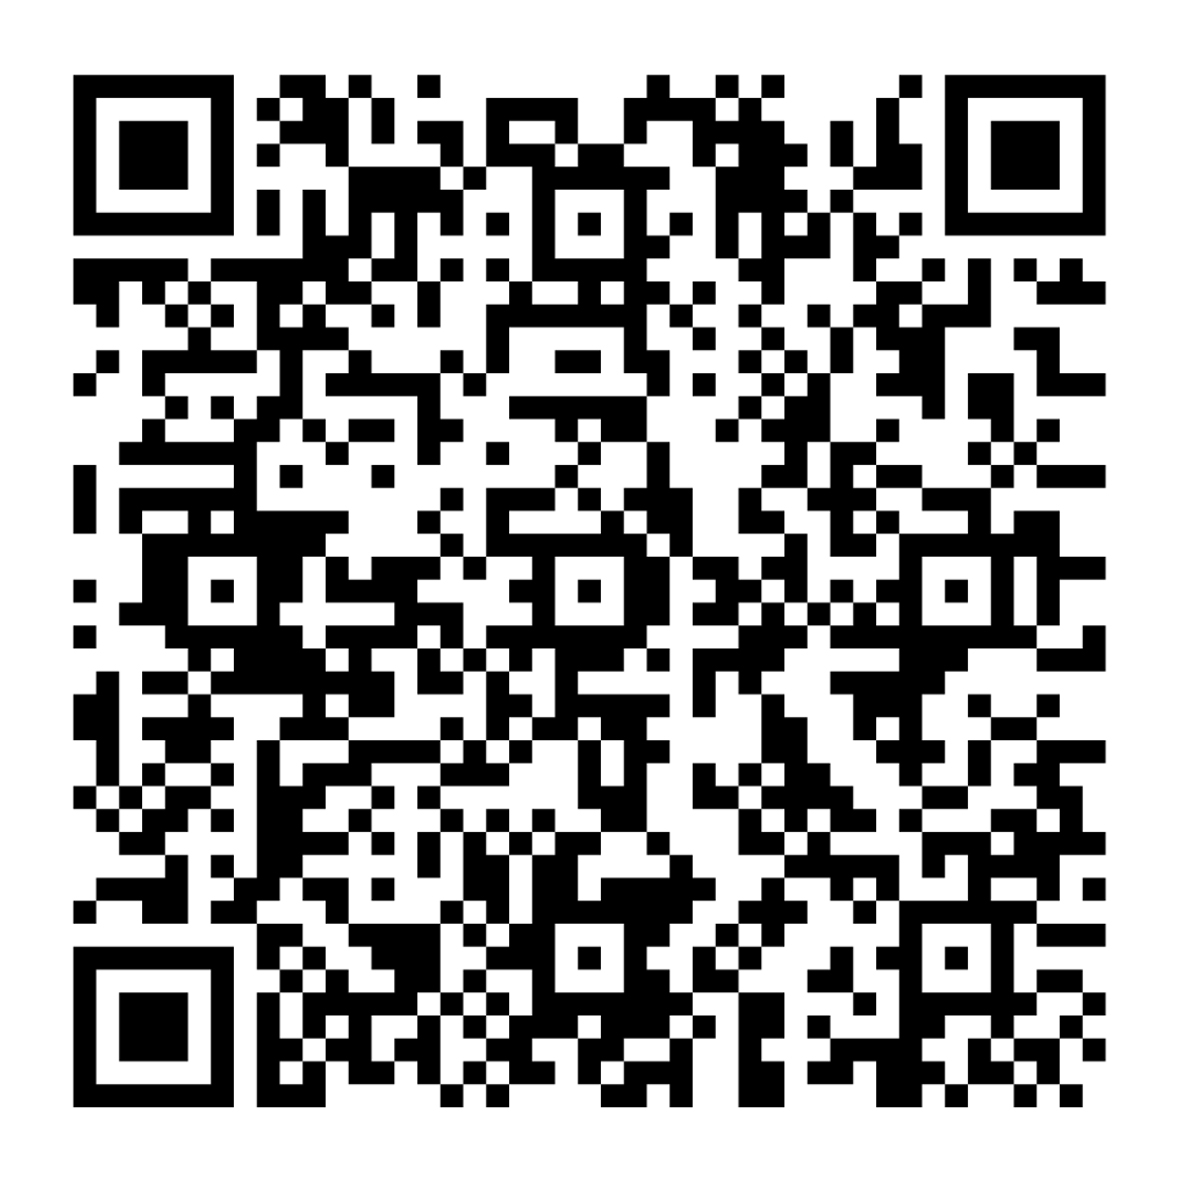
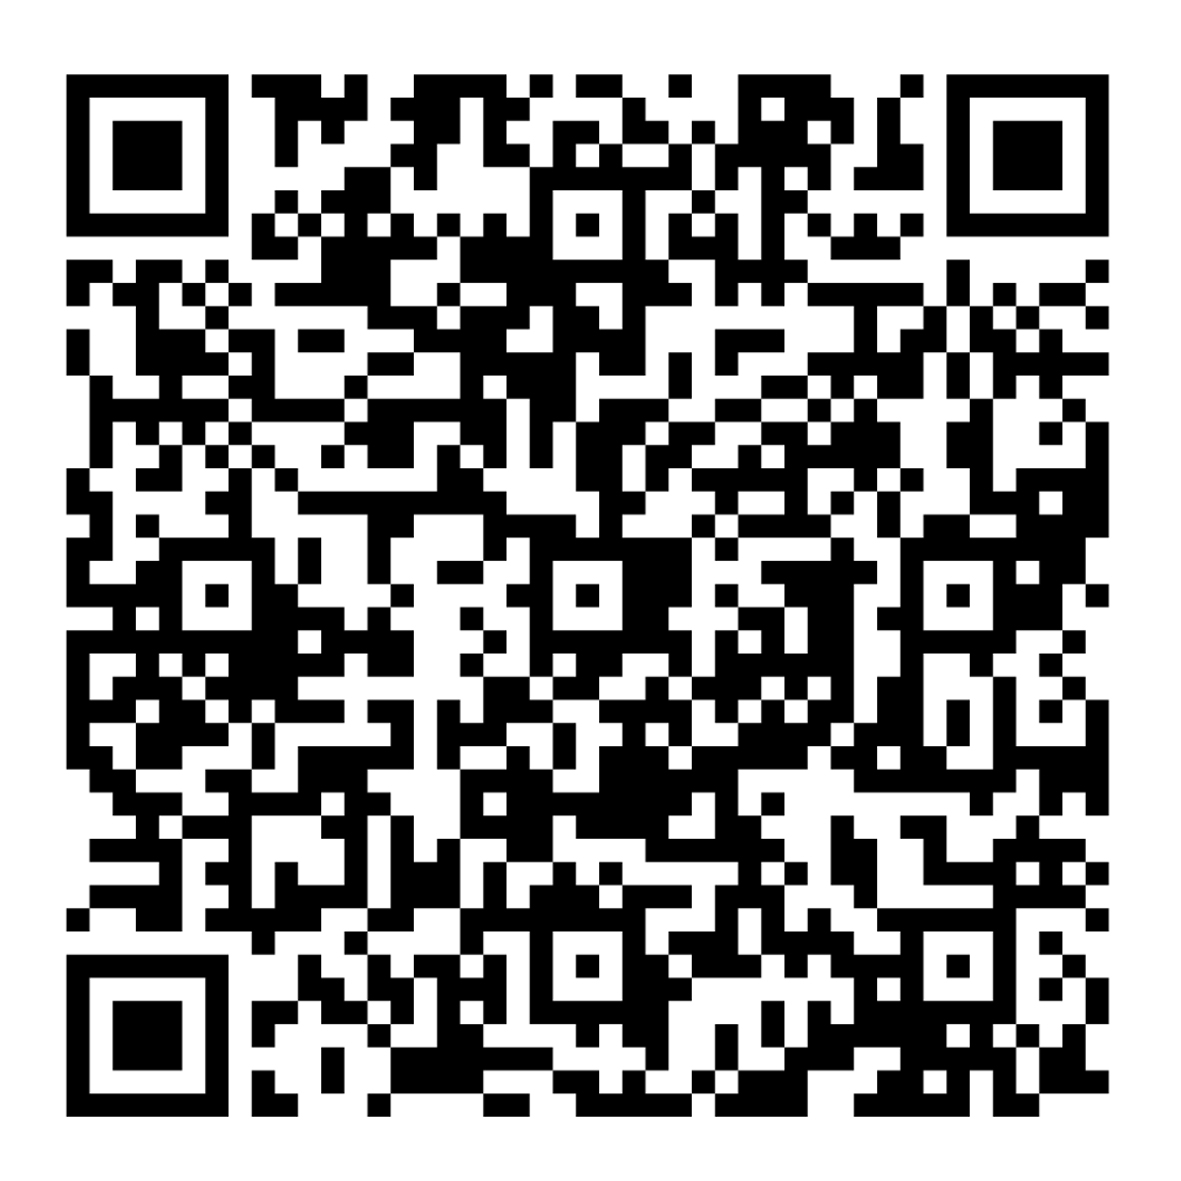
hjgjg

diff --git a/payment.html b/payment.html
@@ -404,86 +404,95 @@
         .plans-container {
             display: flex;
             justify-content: center;
-            align-items: center;
+            flex-wrap: wrap;
+            gap: 40px;
+            align-items: stretch;
         }
 
         .price-container {
             background: var(--color-white);
             border-radius: 16px;
-            padding: 50px 40px;
+            padding: 40px 30px;
             width: 100%;
-            max-width: 500px;
+            max-width: 360px;
             text-align: center;
-            box-shadow: 0 12px 30px rgba(0, 0, 0, 0.12);
-            border: 3px solid var(--color-primary);
+            box-shadow: 0 8px 20px rgba(0, 0, 0, 0.08);
+            border: 2px solid #e0e0e0;
             transition: all var(--transition-speed) ease;
             position: relative;
+            display: flex;
+            flex-direction: column;
+        }
+
+        .price-container.popular {
+            border-color: var(--color-primary);
+            transform: scale(1.05);
         }
 
         .price-container:hover {
-            transform: translateY(-10px);
-            box-shadow: 0 15px 40px rgba(0, 0, 0, 0.18);
+            transform: translateY(-8px) scale(1.02);
+            box-shadow: 0 12px 30px rgba(0, 0, 0, 0.12);
+        }
+        
+        .price-container.popular:hover {
+            transform: translateY(-8px) scale(1.05);
         }
 
         .price-label {
             position: absolute;
-            top: -18px;
+            top: -16px;
             left: 50%;
             transform: translateX(-50%);
-            background: linear-gradient(135deg, #ff6b6b, #ee5a6f);
+            background: var(--color-primary);
             color: var(--color-white);
-            padding: 10px 30px;
-            border-radius: 30px;
-            font-size: 1rem;
+            padding: 8px 20px;
+            border-radius: 25px;
+            font-size: 0.9rem;
             font-weight: 700;
             text-transform: uppercase;
-            box-shadow: 0 4px 15px rgba(255, 107, 107, 0.4);
-            letter-spacing: 1px;
+        }
+        
+        .price-label.popular-label {
+             background: var(--color-text-dark);
         }
 
+
         .price-amount {
-            font-size: 4rem;
+            font-size: 3.5rem;
             font-weight: 700;
             color: var(--color-primary);
-            margin: 40px 0 20px;
+            margin: 30px 0 15px;
             display: flex;
             align-items: baseline;
             justify-content: center;
-            gap: 5px;
+            gap: 4px;
         }
 
         .price-currency {
-            font-size: 2rem;
+            font-size: 1.5rem;
             font-weight: 600;
         }
 
         .price-period {
-            font-size: 1.2rem;
+            font-size: 1rem;
             color: #777;
             font-weight: 500;
-            margin-left: 5px;
         }
 
         .price-description {
-            font-size: 1.1rem;
+            font-size: 0.95rem;
             color: #666;
-            line-height: 1.8;
-            margin-bottom: 35px;
+            line-height: 1.7;
+            margin-bottom: 30px;
+            flex-grow: 1;
         }
 
         .qr-code-plan {
             width: 100%;
-            max-width: 280px;
-            border-radius: 12px;
-            margin: 30px auto;
-            box-shadow: 0 4px 15px rgba(0, 0, 0, 0.1);
-        }
-
-        .pix-email {
-            font-size: 1.1rem;
-            color: var(--color-text-dark);
-            font-weight: 600;
-            margin-top: 20px;
+            max-width: 250px;
+            border-radius: 10px;
+            margin-top: auto;
+            align-self: center;
         }
 
         .mensagem-formal {
@@ -501,6 +510,7 @@
         @media (max-width: 1024px) {
             .main-title { font-size: 2.5rem; }
             .features-offer-content { grid-template-columns: 1fr; }
+            .price-container.popular { transform: scale(1); }
         }
 
         @media (max-width: 768px) {
@@ -510,7 +520,8 @@
             .logo { max-width: 280px; }
             .section-title { font-size: 2rem; }
             .payment-container { padding: 40px 25px; }
-            .price-container { max-width: 100%; padding: 40px 30px; }
+            .plans-container { flex-direction: column; align-items: center; }
+            .price-container { max-width: 400px; }
             .gallery-grid { grid-template-columns: repeat(auto-fit, minmax(200px, 1fr)); }
             .contact-buttons { flex-direction: column; }
         }
@@ -521,20 +532,16 @@
             .subtitle { font-size: 1rem; }
             .logo { max-width: 220px; }
             .section-wrapper { padding: 30px 20px; }
-            .price-amount { font-size: 3.5rem; }
-            .price-container { padding: 35px 20px; }
+            .price-amount { font-size: 3rem; }
         }
-        
         .logo2 {
-            width: 150px;
-            height: auto;
+            width: 150px;      /* define a largura fixa */
+            height: auto;     /* mantém a proporção da imagem */
         }
-        
         .bonus-section {
             text-align: center;
             margin-top: 20px;
         }
-        
         .bonus-section p {
             font-size: 1.2rem;
             color: var(--color-text-secondary);
@@ -704,22 +711,35 @@
         <section class="payment-section section">
             <div class="payment-container">
                 <div class="payment-header">
-                    <h2>Oferta Promocional Exclusiva!</h2>
-                    <p>Aproveite nosso plano promocional com acesso completo à plataforma!</p>
+                    <h2>Escolha seu plano</h2>
+                    <p>Invista em resultados melhores com um plano acessível!</p>
                 </div>
                 
                 <div class="plans-container">
                     <div class="price-container">
-                        <span class="price-label">🔥 Promoção Limitada</span>
+                        <span class="price-label">Plano Mensal</span>
                         <div class="price-amount">
-                            <span class="price-currency">R$</span>19,99
+                            <span class="price-currency">R$</span>25
                             <span class="price-period">/ Mês</span>
                         </div>
                         <div class="price-description">
-                            Acesso completo à plataforma BetStat com todas as ferramentas exclusivas, análises avançadas, estatísticas em tempo real e muito mais! Aproveite esta oferta especial!
+                            Acesso completo à plataforma BetStat, análises avançadas, estatísticas em tempo real, ferramentas exclusivas!
                         </div>
-                        <img src="img/qr.jpg" alt="QR Code Promocional" class="qr-code-plan">
-                        <p class="pix-email">📧 sitebetstat@gmail.com</p>
+                        <img src="img/qr.jpg" alt="QR Code Mensal" class="qr-code-plan">
+                        <p>sitebetstat@gmail.com</p>
+                    </div>
+                    
+                    <div class="price-container popular">
+                        <span class="price-label">Mais Vantajoso</span>
+                        <div class="price-amount">
+                            <span class="price-currency">R$</span>70
+                            <span class="price-period">/ 3 meses</span>
+                        </div>
+                        <div class="price-description">
+                            Economize com o plano trimestral! Tenha acesso completo à plataforma BetStat por 3 meses, todas as ferramentas, incluindo o <strong>Desconto</strong> 
+                        </div>
+                        <img src="img/qr3.jpg" alt="QR Code 3 Meses" class="qr-code-plan">
+                        <p>sitebetstat@gmail.com</p>
                     </div>
                 </div>
 
